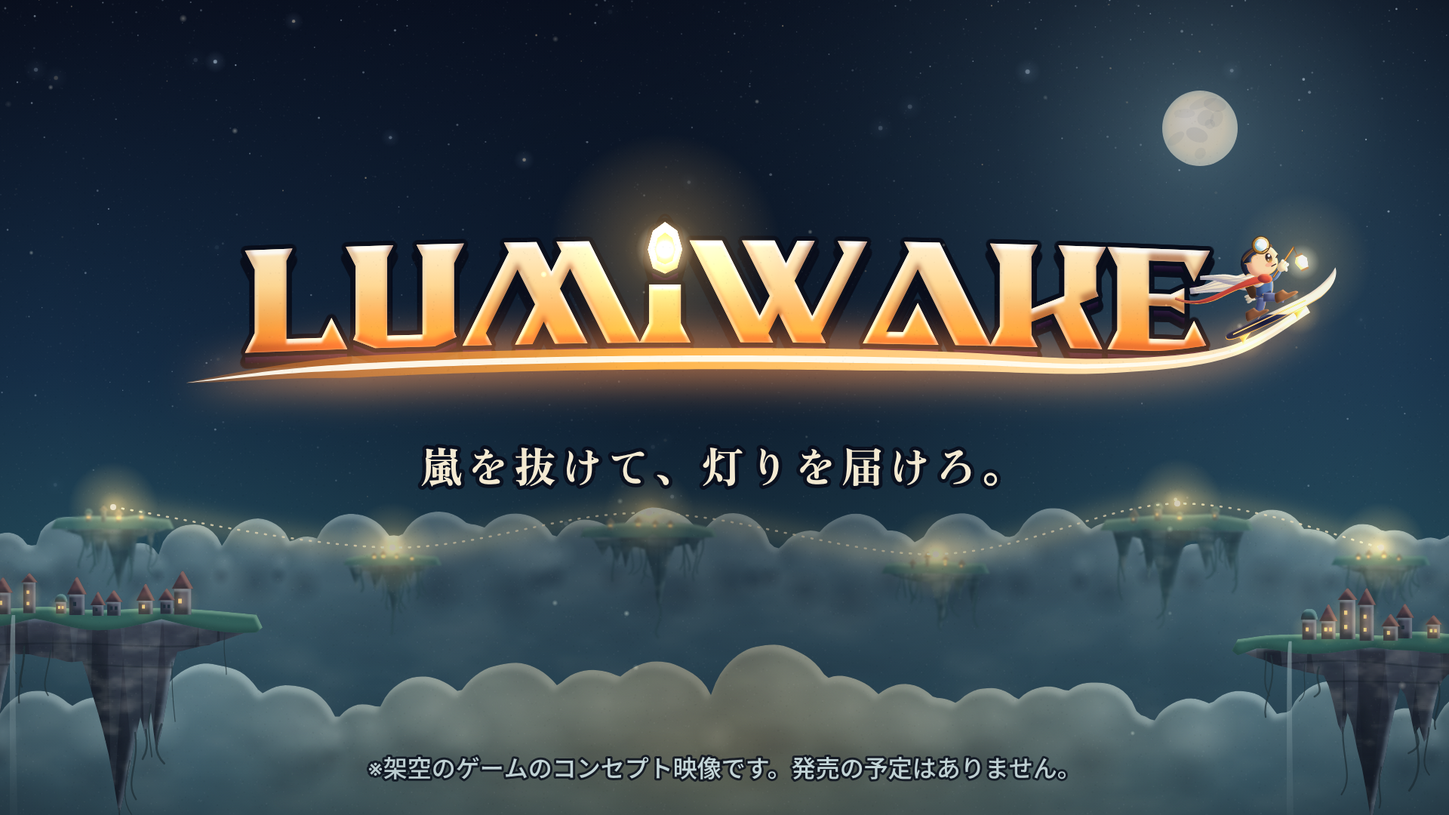
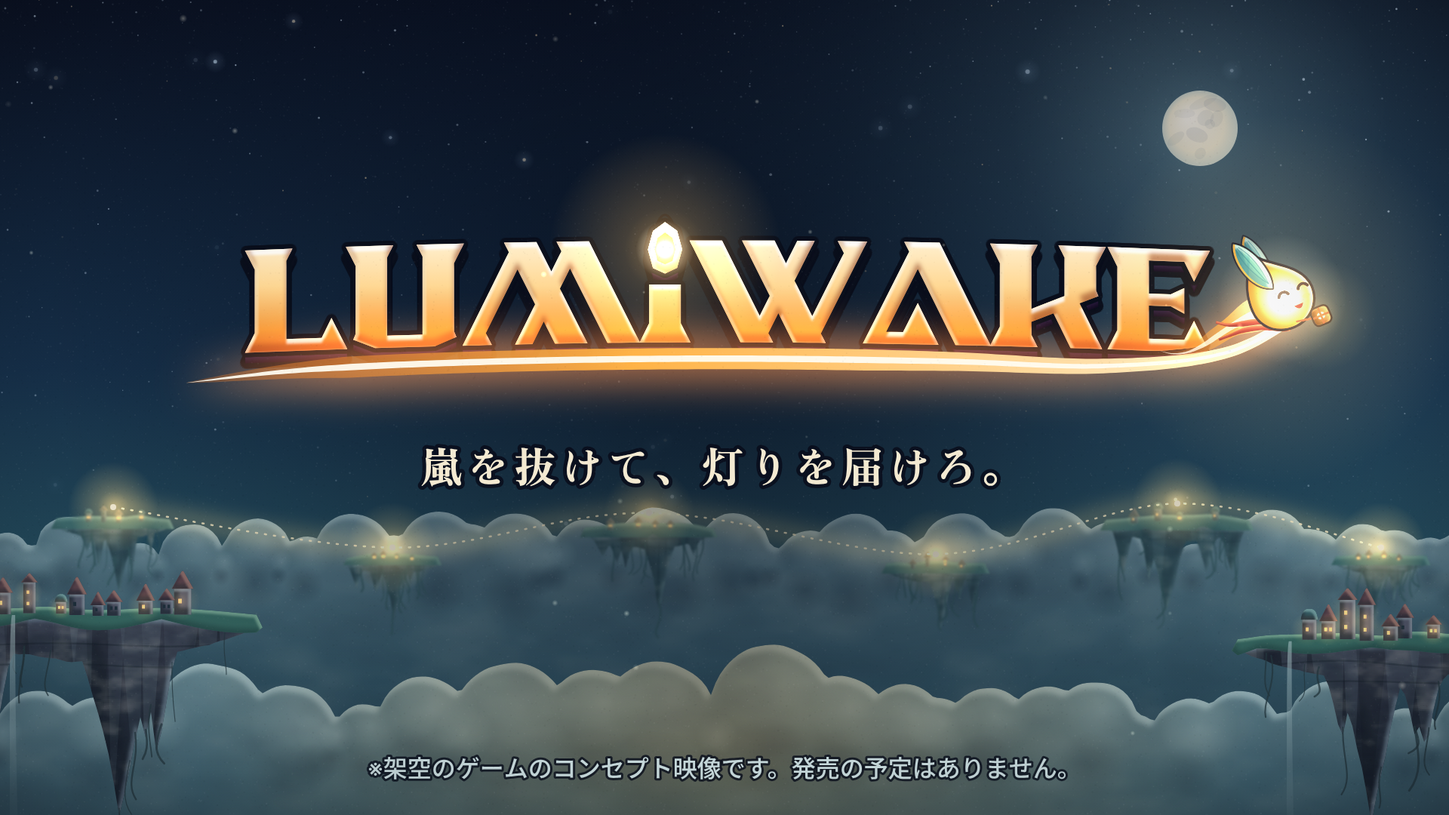
Replace human courier with a lantern spirit; rebuild shot table around the Suno track accents
Spirit rig (chain-based secondary motion, poses, 2 designs), sf1-sf3 redrawn,
sheets and checks. Shot table rebuilt from measured accents (cues ledger +
sync_check.py + generated SYNC_TABLE). Audio, fonts and logo glyph data are
not committed.

Claude-Session: https://claude.ai/code/session_01DHqeTrY16kMSHw1xjVFCqk

Changed region(s): [[0.7812, 0.2444, 0.9688, 0.4889]]

diff --git a/claude-video-skill/examples/lumiwake-30s/src/still.html b/claude-video-skill/examples/lumiwake-30s/src/still.html
@@ -4,13 +4,13 @@
 <style>@font-face{font-family:HUD;src:url('../assets/fonts/hud.otf')} body{margin:0;background:#000}</style>
 <body><canvas id="c" width="1920" height="1080"></canvas>
 <script src="../../../tools/assets/scene-lib.js"></script><script src="../../../tools/assets/depth.js"></script>
-<script src="lib/paint.js"></script><script src="lib/world.js"></script><script src="lib/courier.js"></script><script src="lib/courier2.js"></script>
+<script src="lib/paint.js"></script><script src="lib/world.js"></script><script src="lib/courier.js"></script><script src="lib/courier2.js"></script><script src="lib/spirit.js"></script>
 <script src="lib/hud.js"></script><script src="lib/logo-glyphs.js"></script><script src="lib/logo.js"></script>
 <script src="stills/sf1.js"></script><script src="stills/sf2.js"></script><script src="stills/sf3.js"></script>
 <script>
 (async () => {
   const q = new URLSearchParams(location.search);
-  PAINT.mode.fx = q.get("fx") !== "0"; window.CHAR_OLD = q.get("char") === "old"; if (q.get("hudws") !== null) window.HUD_WS = parseFloat(q.get("hudws")); PAINT.mode.sil = q.get("sil") === "1";
+  PAINT.mode.fx = q.get("fx") !== "0"; window.CHAR = q.get("char") || "spirit"; window.CHAR_OLD = window.CHAR === "old"; window.SPIRIT_DESIGN = q.get("sd") || "P"; if (q.get("hudws") !== null) window.HUD_WS = parseFloat(q.get("hudws")); PAINT.mode.sil = q.get("sil") === "1";
   await Promise.all(["32px HUD", "700 26px JPG", "500 26px JPG", "900 40px JPM"].map((f) => document.fonts.load(f, "灯台島まで嵐を抜けて、灯りを届けろ。届けた灯りが空の道ルミウェイク架空発売予定0123456789")));
   await document.fonts.ready;
   const ctx = document.getElementById("c").getContext("2d");

diff --git a/claude-video-skill/examples/lumiwake-30s/src/stills/sf1.js b/claude-video-skill/examples/lumiwake-30s/src/stills/sf1.js
@@ -36,7 +36,8 @@ STILLS["1"] = function (ctx, t) {
   let k = 0; while (k < samp.length - 2 && samp[k][0] < 1080) k++;
   const ang = Math.atan2(samp[k + 1][1] - samp[k - 1][1], samp[k + 1][0] - samp[k - 1][0]);
   // 配達人: 案A(提灯のミオ)。?char=old で第1版(比較用)
-  if (window.CHAR_OLD) COURIER.drawCourier(ctx, samp[k][0], samp[k][1] - 6, 1.45, ang, { lean: 0.5, crouch: 0.7, armF: 0.15, scarfT: t, lampGlow: 1 });
+  if (window.CHAR === "spirit") SPIRIT.draw(ctx, samp[k][0] + 20, samp[k][1] - 105, 2.3, ang, "fly", window.SPIRIT_DESIGN, { t, lift: 0.0 });
+  else if (window.CHAR_OLD) COURIER.drawCourier(ctx, samp[k][0], samp[k][1] - 6, 1.45, ang, { lean: 0.5, crouch: 0.7, armF: 0.15, scarfT: t, lampGlow: 1 });
   else COURIER2.draw(ctx, samp[k][0], samp[k][1] - 15, 1.7, ang * 0.9, Object.assign({}, COURIER2.POSES.ride, { lean: 0.34, crouch: 0.55, fx: 82, bx: -80, handF: [1.6, -0.35] }), "A", { t, windLift: 0.42 });
   // 手前: 暗い岩(右下、d=0。画面の枠になる)と、手前の雲のもや(ぼかし)
   W.island(ctx, { seed: 21, cx: 1820, top: 960, w: 620, depthH: 300, d: 0.0, town: false, falls: false, lamp: 0, L: [0.6, -0.8], lightSide: { col: C.amber, w: 5, L: [-0.9, -0.3], a: 0.7 } });

diff --git a/claude-video-skill/examples/lumiwake-30s/src/stills/sf2.js b/claude-video-skill/examples/lumiwake-30s/src/stills/sf2.js
@@ -45,7 +45,8 @@ STILLS["2"] = function (ctx, t) {
     ctx.lineWidth = 2; ctx.strokeStyle = "rgba(255,240,210,0.5)"; ctx.beginPath(); ctx.arc(at[0] - 90, at[1] - 30, 330, 0, 7); ctx.stroke(); ctx.restore();
     P.glow(ctx, at[0] - 90, at[1] - 30, 300, C.amber, 0.35);
   }
-  const me = window.CHAR_OLD ? COURIER.drawCourier(ctx, at[0], at[1] - 4, 1.5, ang, { lean: 0.6, crouch: 0.95, armF: 0.9, armB: 0.6, scarfT: t + 0.3, scarfLen: 1.15 })
+  const me = window.CHAR === "spirit" ? SPIRIT.draw(ctx, at[0] + 10, at[1] - 140, 2.2, ang, Object.assign({}, SPIRIT.POSES.fly, { expr: 2, flap: 0.6, glow: 1.25, tail: 1.25 }), window.SPIRIT_DESIGN, { t: t + 0.3, lift: 0.0 })
+    : window.CHAR_OLD ? COURIER.drawCourier(ctx, at[0], at[1] - 4, 1.5, ang, { lean: 0.6, crouch: 0.95, armF: 0.9, armB: 0.6, scarfT: t + 0.3, scarfLen: 1.15 })
     : COURIER2.draw(ctx, at[0], at[1] - 18, 1.85, ang * 0.9, Object.assign({}, COURIER2.POSES.ride, { lean: 0.5, crouch: 0.85, fx: 84, bx: -84, handF: [1.55, -0.55], expr: 0 }), "A", { t: t + 0.3, windLift: 0.45 });
   // 手前: 渦に吸い上げられる岩のかけら(ぼかし=手前の被写界深度)
   P.layer(ctx, (g) => {

diff --git a/claude-video-skill/examples/lumiwake-30s/src/stills/sf3.js b/claude-video-skill/examples/lumiwake-30s/src/stills/sf3.js
@@ -27,7 +27,8 @@ STILLS["3"] = function (ctx, t) {
   const L = LOGO.draw(ctx, 960, 400, 1280, { t });
   // スウッシュの先端に小さな配達人
   const e = L.swooshEnd, s2 = L.swS, n = s2.length, ang = Math.atan2(s2[n - 1][1] - s2[n - 4][1], s2[n - 1][0] - s2[n - 4][0]);
-  if (window.CHAR_OLD) COURIER.drawCourier(ctx, e[0] - 30 * Math.cos(ang), e[1] - 30 * Math.sin(ang) - 3, 0.3, ang, { lean: 0.5, crouch: 0.7, scarfT: t });
+  if (window.CHAR === "spirit") SPIRIT.draw(ctx, e[0] - 40 * Math.cos(ang), e[1] - 40 * Math.sin(ang) - 34, 0.82, ang, "offer", window.SPIRIT_DESIGN, { t, lift: 0.0 });
+  else if (window.CHAR_OLD) COURIER.drawCourier(ctx, e[0] - 30 * Math.cos(ang), e[1] - 30 * Math.sin(ang) - 3, 0.3, ang, { lean: 0.5, crouch: 0.7, scarfT: t });
   else COURIER2.draw(ctx, e[0] - 46 * Math.cos(ang), e[1] - 46 * Math.sin(ang) - 12, 0.42, ang * 0.8, Object.assign({}, COURIER2.POSES.ride, { lean: 0.4, crouch: 0.5 }), "A", { t, windLift: 0.35 });
   // コピーと注記(和文)
   if (!P.mode.sil) {

diff --git a/claude-video-skill/examples/lumiwake-30s/BRIEF.md b/claude-video-skill/examples/lumiwake-30s/BRIEF.md
@@ -8,27 +8,33 @@
 |---|---|
 | 題材 | 架空のゲーム『LUMIWAKE(ルミウェイク)』。浮遊島の夜空を、光の気流に乗って荷物(灯り)を届ける配達人のアクション |
 | 遊びの核(1文) | 琥珀の「光の気流」に乗って加速し、嵐の稲妻と乱気流をぎりぎりでかわして、島へ灯りを届ける(届けると島が点灯する) |
-| 主役 | 配達人ミオ。空板に乗り、背中に四角い灯り箱、長い朱のマフラー、額に飛行ゴーグル(案A「提灯のミオ」に確定(ユーザー承認)。作りは `src/lib/courier2.js`。旧版は `courier.js`(比較用に残す)) |
+| 主役 | **灯りの精**(光を運ぶ小さな配達役。人型ではない)。炎のしずくの体に、光のリボンの尾、朱の房、青緑の葉の羽、吊り下げた小包。作りは `src/lib/spirit.js`(案P「ともしび」を推薦、案Q「提灯ちゃん」は不採用の候補)。人型のミオ(`courier2.js`)は、ユーザーの判断で廃止(比較用に残す) |
 | 尺・画面 | 30秒 = 900コマ、1920×1080、30fps、横 |
 | 用途 | ゲームの宣伝ティザー(疑似プレイ演出のコンセプト映像)。無音で見ても分かること |
 | 表記 | 「架空のゲームのコンセプト映像です。発売の予定はありません。」を最後の画面に出す。発売日・価格・ストア名・機種は書かない |
 | 禁止 | 人物写真、AI 生成のフラット PNG の貼り合わせ、3D、実在の作品・商標に似せること、既製フォントそのままのロゴ |
 
-## 2. 30秒の構成(調査の一致点を前提にする)
-前提: 冒頭0〜3秒に「行動+危険+結果」を同時に見せる/スタジオロゴは冒頭に置かない/情景カットは2枚まで/説明の板は作らず、行動→反応→結果→HUD の数字の因果で見せる/主張は2つまで/ロゴと架空表記は最後の1枚/15秒の引き延ばしにせず「失敗・再挑戦・報酬」を足す。
+## 2. 30秒の構成(Suno の曲の区間に合わせて組み直した版)
+前提: 冒頭0〜3秒に「行動+危険+結果」/スタジオロゴは冒頭に置かない/情景は2枚まで/説明の板は作らず行動→反応→結果→HUD の数字の因果で見せる/主張は2つまで/ロゴと架空表記は最後の1枚/15秒の引き延ばしにせず「失敗・再挑戦・報酬」を足す。
+曲の区間(実測。`audio/sync_map.json`): 0〜1s 前の余韻 / 1〜7.5s 音量が下がる谷 / **7.56s 最大のアクセント** / 7.56〜20.5s 持続する推進 / 20.5〜24.6s 山場 / 24.6〜30s 余韻(減衰)。
 
-| 区間 | 秒 | 役割 | 中身 |
-|---|---|---|---|
-| フック | 0–3 | 行動+危険+結果 | 気流を駆け上がる配達人の真後ろに稲妻。かわして NEAR MISS +150(スタイルフレーム1) |
-| 情景1 | 3–6 | 目的地 | 灯りの消えた島の町を見下ろす。主張1「嵐を抜けて、灯りを届けろ。」 |
-| ルール | 6–10 | 操作と因果 | 気流から気流へ跳び移る → 光の粒を拾う → LUMI ゲージが満ちる → 加速 |
-| 失敗 | 10–14 | 危険が本物だと分かる | 嵐の腕が荷物をかすめる → 画面が揺れる → PARCEL 3→2(割れた灯り)→ 体勢を崩す |
-| 再挑戦・見せ場 | 14–20 | 遊びの応用 | 立て直して嵐の目を回り込む。完璧なタイミングでヒットストップ、PERFECT +800、STREAK ×12(スタイルフレーム2) |
-| 報酬 | 20–24 | クライマックス | 灯台島に届ける → 灯台が点灯 → 町の灯りが波のように広がる |
-| 情景2 | 24–26 | 余韻 | 引きの画。灯った島々が航路の光でつながる。主張2「届けた灯りが、空の道になる。」 |
-| ロゴ | 26–30 | 名前を覚える | 航路の光がスウッシュになりロゴ着地、静止保持、架空の表記(スタイルフレーム3) |
+| 区間 | 秒(コマ) | 役割 | 中身 | 曲との対応 |
+|---|---|---|---|---|
+| フック | 0–3(0–90) | 行動+危険+結果 | 灯りの精が気流を駆け、稲妻をかわして NEAR MISS(SF1) | 前の余韻。1.0s で谷へ |
+| 谷 | 3–7.57(90–227) | 静かな緊張・目的地・主張1 | 暗い灯台島と迫る嵐。「嵐を抜けて、灯りを届けろ。」 | 谷。音の無い動きだけで見せる |
+| 点火 | 7.57–10(227–300) | 最大の見せ場の開始 | 灯りの点火、気流に飛び込む | **7.56s の最大のアクセント=227** |
+| ルール | 10–14(300–420) | 操作と因果 | 光の粒を拾い、ゲージが満ち、加速 | 推進の刻み |
+| 失敗 | 14–16.9(420–507) | 危険が本物 | 嵐が荷物をかすめ、PARCEL 3→2 | 強いアクセント 435・455 |
+| 再挑戦 | 16.9–20.33(507–610) | 立て直し | 嵐の目をめぐる門を4つ通る | 門ごとに 539・559・578・591 |
+| 山場 | 20.33–24.1(610–723) | 最大の見せ場と報酬 | PERFECT、ヒットストップ、STREAK ×12、灯台へ | 山場。610 と STREAK の5連 |
+| ロゴ | 24.1–30(723–900) | 名前を覚える | 灯台の点火+ロゴ着地、航路の光、主張2、架空の表記 | 低音の一撃 723、余韻 |
 
-主張は2つだけ: ①嵐をかわして届けるアクション ②届けると世界(夜空の地図)が変わる。特徴の箇条書き(協力プレイ等)は出さない。
+主張は2つだけ: ①嵐をかわして届けるアクション ②届けると世界(夜空の地図)が変わる。特徴の箇条書きは出さない。映像のヒットは対応するアクセントのコマと±1コマ以内(`SHOTS.md`、`SYNC_TABLE.md`)。
+
+## 2b. 曲と権利
+- 曲: **Suno『Hopeful Bittersweet』**(ユーザーが Suno の無料プランで生成)の 159.84〜189.84 秒を切り出した30.000秒(-14.6 LUFS、真のピーク -2.6 dBFS)。2曲のうち、測定結果(谷→最大のアクセント→山場→余韻の形が映像構成に合う)から A を採用。
+- **音声ファイルはリポジトリに入れない**(`audio/*.mp3` は .gitignore)。入れてあるのは測定結果の `audio/sync_map.json` と、映像側の台帳 `audio/cues.json` だけ。
+- **権利(公開前に利用者が Suno の規約で確認すること)**: 無料プランの曲は、個人・非商用で、Suno への表記(クレジット)が条件になると報告されている(第三者の解説で、こちらでは規約を確かめていない)。この動画を公開・商用に使う前に、現在の Suno の利用規約・プランの条件を確認し、必要な表記(Suno の曲であること)を動画の説明などに入れる。映像側の注記は架空のゲーム表記のみ。
 
 ## 3. 調査の要点と前回の弱点の対応表
 前回の弱点の番号は FINDINGS.md §3。[試験値]は事実でなく、ここで試して決める値。
@@ -36,13 +42,13 @@
 | 前回の弱点 | 対応する調査の要点 | 今回の手当て | 範囲 |
 |---|---|---|---|
 | 1 ゲームに見えず図解のよう(平塗り・陰影なし・事件がない) | 最初のトレーラーはゲームプレイ主体・HUD が見えるとよい(Steam、[確認])/疑似プレイは行動→反応→結果→HUD の鎖 | 全ショットを疑似プレイ(行動と数字の因果)で組む。説明の板は0枚。絵は3トーン+リム、背景4層以上、大気遠近、局所光、薄い粒 | 絵の作り方=汎用 / HUD・NEAR MISS=ゲーム |
-| 2 主役不在・キーアートなし | 主役は明瞭なシルエット+局所リム、540px とシルエットだけで読めるか | 主役ミオを全8ショットに出す(ロゴの画面でもスウッシュの先端に小さく)。シルエットの決め手を3つ(マフラー・灯り箱・空板) | 汎用 |
+| 2 主役不在・キーアートなし | 主役は明瞭なシルエット+局所リム、540px とシルエットだけで読めるか | 主役(灯りの精)を全8ショットに出す(ロゴの画面でもスウッシュの先端に)。人型は廃止し、光・尾・羽で見せる。シルエットの決め手を3つ(炎の先・葉の羽・吊り小包) | 汎用 |
 | 3 ロゴが既製フォントの並べただけ | 既製フォントの無加工表示は禁止。白黒で成立する字形を先に合格させてから質感 | ゆうたONE「FullmoonMarch」の字形をパスにし、反らし・i を灯りに置換・スウッシュで下端を切り欠く・押し出しと縁の光。白黒版で先に確認 | 汎用(ブランド)/題材の灯り=ゲーム |
 | 4 タイポの質(Noto 900 一択、出方が単調、小さい文字) | 1920×1080 で強調文 64〜100px・情報 40〜60px・補足 32px 以上 [試験値]/読ませる日本語は 4〜6字/秒から試す [試験値] | 和文は2書体(主張=Zen Old Mincho 900、表記と HUD の和文=Noto Sans JP 500/700)、必要な字だけサブセット。主張は 2.5〜3.0秒保持 | 汎用 |
 | 5 同じ型の繰り返し・スライド風 | 情景カットは2〜3枚まで、すぐに触れる遊び | 型の違う画を並べる(横移動の追い撮り/俯瞰/寄りの事故/渦の周回/引きの全景)。見出し+絵の型は使わない | 汎用 |
 | 6 転換の質(9枚平均ブラー、企業色の色帯) | 最優先はハードカット、必要な所だけ方向ワイプ・ホイップ 4〜7f・フラッシュ 1〜2f [試験値]。全カット同じ転換は禁止 | 基本はハードカットで「動きの向き」を引き継ぐ。転換の効果は2か所まで(S4 の揺れ、S8 の光の収束) | 汎用 |
 | 7 暗く単調、明度の山がタイトルだけ | 背景4〜6層、遠景は低彩度・低コントラスト [試験値] | 明度の山を3つ(稲妻 1.6s、PERFECT 17.4s、灯台点灯 21s)。嵐=紫黒と白青、味方=琥珀で色の意味を固定 | 汎用(色の意味づけ)/配色=題材 |
-| 8 音(埋もれ・出すぎ、低域過多) | 全拍にヒットを重ねない、山場の前に引き算、バス分離、固定の dB 差ルールは作らず聴いて決める [試験値] | 第2段階。山は4つだけ(ショット表の「音の山」)。山の前に効果音を引く窓を2か所 | 汎用 |
+| 8 音(埋もれ・出すぎ、低域過多) | 全拍にヒットを重ねない、山場の前に引き算、バス分離、固定の dB 差ルールは作らず聴いて決める [試験値] | 曲は Suno の30秒切り出し(実測のアクセントに映像を合わせる)。効果音は3発だけ。谷(1〜7.5s)は音に無い動きで見せる | 汎用 |
 | 9 詰め込みすぎ | 主張は30秒でも2つまで、説明カット 1.0〜2.5秒・衝撃カット 0.15〜0.3秒 [試験値] | 主張2つ、特徴の列挙なし。読ませる文字は長いショットにだけ置く | 汎用 |
 | 10 細部(数字のつながり等) | — | 数字は1本の流れ(距離 1.2km → 0.4km → 到着、PARCEL 2 → …、STREAK は増えるだけ)をショット表で固定 | ゲーム |
 
@@ -71,7 +77,7 @@
 - 枠組み: HyperFrames(SKILL.md §2)。`<canvas>` 1枚に、止めたタイムラインの時刻から `src/lib/*.js` で描く。スタイルフレームの関数はすでに時刻 t の純関数(乱数は seed 付き、同じ引数で同じ画素になることを2回描いて md5 一致で確認)。
 - 動き(motion-prompt のギャラリー、`search` で見つけた候補。`get` はまだ): #121 予備動作(S3 の跳び移り)、#122 余韻(マフラーの揺れ戻り)、#011 つぶしと伸ばし(着地)、#024 衝撃の揺れ(S4 の被弾・S8 のロゴ着地)、#040 フリーズフレーム(ヒットストップの考え方)、#108 流し撮り(S1 の背景の流れ)、#035 FPV(S5 の周回)、#022 光の帯(ロゴ)。ゲーム固有の動き(被弾の点滅、数字のポップ、HUD の2段ゲージ)はギャラリーに無いので自作になる見込み。
 - ヒットストップの式: 資料の型 `f<h ? f : f<h+n ? h : f-n` は n=2 のとき 92,93,94 の3コマが止まる(手元で計算して確認)。止めるコマ数を n にするなら `f<h ? f : f<h+n ? h : f-n+1`(この場合、以降の動きは n−1 コマ遅れる)。1/2/4 コマを比べて決める [試験値]。
-- 音の山は4つ(1.6s 稲妻、11.0s 被弾、17.4s PERFECT、27.0s ロゴ)。BGM は1曲として切らない(SKILL.md §4b)。
+- 曲は Suno の30秒(上の 2b)。BGM は切らず、効果音は `audio/cues.json` の `sfx_plan` の3発だけ。映像のヒットの検査は、書き出し後に `tools/sync_check.py`(skill 側)等で実測する。
 
 ## 8. 再現
 ```bash

diff --git a/claude-video-skill/examples/lumiwake-30s/SHOTS.md b/claude-video-skill/examples/lumiwake-30s/SHOTS.md
@@ -1,28 +1,35 @@
-# LUMIWAKE 30秒 — ショット表(cue 表)
+# LUMIWAKE 30秒 — ショット表(曲に合わせて作り直した版)
 
-30fps・900コマ。フレーム範囲は整数で**終端を含まない**([開始, 終了))。区間は隙間・重なりなしで 0〜900 を覆う(合計 90+90+120+120+180+120+60+120 = 900)。
-範囲の列: 汎用=どのジャンルの宣伝にも効く作り方 / ゲーム=ゲームPV 専用の作り方。SF=スタイルフレーム。
+30fps・900コマ。フレーム範囲は整数で**終端を含まない**([開始, 終了))。0〜900 を隙間・重なりなしで覆う(90+137+73+120+87+103+113+177 = 900。`src/tools/sync_check.py` で機械的に確認済み)。
+曲: Suno『Hopeful Bittersweet』の 159.84〜189.84 秒の30秒切り出し。**実測のアクセント時刻**(`audio/sync_map.json`、時刻の分解能 約11.6ms)を使い、拍の格子は仮定しない。映像のヒットのコマは、対応するアクセントの frame30 と ±1 コマ以内(目標 0〜1)。台帳(正)は `audio/cues.json`、全イベントの対応表は `SYNC_TABLE.md`(自動生成)。
+範囲の列: 汎用=どのジャンルの宣伝にも効く作り方 / ゲーム=ゲームPV 専用。主役は「灯りの精」(人型でない。`src/lib/spirit.js`)。
 
-| # | コマ [開始,終了) | 秒 | 主役 | 意図(見た人に分かること) | 出来事(行動→反応→結果→HUD) | 文字 | 音の山(コマ) | カメラ・つなぎ | 範囲 |
+## ショット
+| # | コマ [開始,終了) | 秒 | 主役 | 意図 | 出来事(行動→反応→結果→HUD) | 文字 | 曲の区間と合わせたアクセント(映像のコマ=アクセントのコマ) | カメラ・つなぎ | 範囲 |
 |---|---|---|---|---|---|---|---|---|---|
-| S1 | 0–90 | 0.0–3.0 | ミオ | 何をするゲームか、危ないことが一目で分かる | 気流を駆け上がる→真後ろに稲妻(46f)→かわす→NEAR MISS +150・×4。**SF1 = 48f** | HUD のみ | **山1: 稲妻 46f**(音は 47f) | 横の追い撮り、ダッチ 3°。0f から完成した構図で動いている | 冒頭3秒に行動+危険+結果=汎用 / NEAR MISS・HUD=ゲーム |
-| S2 | 90–180 | 3.0–6.0 | 灯りの消えた町(ミオは小さく横切る) | 目的地と「灯りがない」状態 | 俯瞰のワイド。島の窓は暗い、灯台島だけ遠くに輪郭 | 主張1「嵐を抜けて、灯りを届けろ。」100–180f(2.67秒) | なし(効果音を引く窓1) | S1 の気流の向きを引き継ぐハードカット | 情景は2枚まで=汎用 |
-| S3 | 180–300 | 6.0–10.0 | ミオ | 操作のルール(跳ぶ・拾う・溜める・加速) | 予備動作→跳び移り→着地(つぶし)→光の粒を3つ拾う(+30 ×3)→LUMI ゲージが段で満ちる→加速(270f) | HUD(+30、LUMI) | 拾う音3つ(小)、加速の風 270f | 寄りから中へ。加速で背景の流れが速くなる | 因果の鎖=汎用 / ゲージ・拾う=ゲーム |
-| S4 | 300–420 | 10.0–14.0 | ミオと嵐の腕 | 危険は本物で、失敗もある | 嵐の腕が荷物をかすめる(330f)→画面の揺れ(中・1回目)→PARCEL 3→2(割れた灯り)→体勢を崩して落ちかけ、マフラーをつかんで戻る | HUD(PARCEL の減り) | 山の前に引き算(318–330f)→**山2: 被弾 330f** | 寄り。被弾の瞬間だけ2コマの白青の閃光 | 失敗を見せる=汎用 / 被弾の点滅・耐久=ゲーム |
-| S5 | 420–600 | 14.0–20.0 | ミオ | 失敗から学んで上手くいく(遊びの応用)。最大の見せ場 | 立て直す→嵐の目のふちを周回(上昇音 435–522f)→完璧な瞬間にヒットストップ→PERFECT +800・STREAK ×12・LUMI 満タン。**SF2 = 522f** | HUD(PERFECT、STREAK) | **山3: PERFECT 522f**(全編で最大の打撃) | 渦の周回、ダッチ 8°。ヒットストップ中は背景の流れも止め、白い輪だけ広がる | 溜めて放つ=汎用 / ヒットストップ・STREAK=ゲーム |
-| S6 | 600–720 | 20.0–24.0 | 灯台島と町 | 届けると世界が変わる(報酬) | 灯台島に着地→荷物を灯台に入れる→灯台が点灯(630f)→町の窓が波のように灯る→DELIVERED | HUD(DELIVERED)→主張2「届けた灯りが、空の道になる。」690f から | 点灯の和音 630f(山ではなく広がり) | 中→引き。灯りの波を左から右へ追う | 報酬の可視化=汎用 / DELIVERED=ゲーム |
-| S7 | 720–780 | 24.0–26.0 | 灯った島々と航路の光 | 余韻。道がつながった | 引きの全景。ミオが通った航路が島をつなぐ光の線になる | 主張2(690–780f、3.0秒) | なし(効果音を引く窓2、BGM は続く) | ゆっくり引く(2%)。情景2枚目 | 余韻の間=汎用 |
-| S8 | 780–900 | 26.0–30.0 | ロゴ(とスウッシュ先端のミオ) | 名前を覚える。架空であることも伝える | 航路の光が集まってスウッシュになる→ロゴ着地(810f、揺れ小・2回目)→灯りの i が灯る→静止保持 820–900f。**SF3 = 840f** | ロゴ、主張1(56px)、架空の表記(32px) | **山4: ロゴ着地 810f**(音は 811f)、余韻で終わる | 固定+ごく遅い寄り。最後の 2.7 秒は保持(holds.json に登録する) | 最後の1枚にロゴ+表記=汎用 |
+| S1 | 0–90 | 0.0–3.0 | 灯りの精 | 何をするゲームか、危ないことが一目で分かる | 気流を駆ける→稲妻が真後ろを撃つ(22)→かわす→NEAR MISS +150。**SF1 = 48** | HUD のみ | 前の余韻(0〜1s)。22(0.22・弱い)=稲妻の閃光。**1.0s=30**: 谷の始まりで世界が静まる | 横の追い撮り、ダッチ3°。0コマ目から動いている完成した構図 | 冒頭3秒に行動+危険+結果=汎用 / HUD=ゲーム |
+| S2 | 90–227 | 3.0–7.57 | 小さな灯りの精と、暗い灯台島 | 静かな緊張。目的地(灯りのない島)と、迫る嵐 | 灯りを落として低く飛ぶ→暗い灯台島が遠くに→嵐の壁が近づく→224で灯りがふくらむ(息を吸う) | 主張1「嵐を抜けて、灯りを届けろ。」100–180(2.67秒、音の無い谷に置く) | **谷(1〜7.5s)**: アクセントなし=動きは音に頼らず、無音の動き(風・光の粒)だけ。224(0.23)=吸う | 引き→寄り。つなぎは S3 へのハードカット(227) | 情景は2枚まで・谷の静けさ=汎用 |
+| S3 | 227–300 | 7.57–10.0 | 灯りの精 | 点火。ここから本編 | **227(1.00)**: 灯りの点火、全面の閃光2コマ、光の気流に飛び込む→240(0.20)灯りの輪、253(0.21)光の粒→299(0.52)光の粒を拾う1つ目、LUMI ゲージ1段 | HUD(LUMI) | **7.56s=227 最大のアクセント**。以降は持続する推進 | 227 でハードカット(暗→明、静→動で2軸反転)。気流に沿う追い撮り | 谷→爆発の対比=汎用 / ゲージ・拾う=ゲーム |
+| S4 | 300–420 | 10.0–14.0 | 灯りの精 | 操作のルール(拾う・溜める・加速) | 331/351/370/383 で光の粒を拾い、ゲージが段で満ちる→403(0.74)ブースト→409(0.74)NEAR MISS +150 | HUD(+30、LUMI、NEAR MISS) | 推進(三連系の刻み)。0.5〜0.7 の刻みはゲージの段、0.74 の二つは加速 | 寄りから中へ。ブーストで背景の流れが速くなる | 因果の鎖=汎用 / ゲージ=ゲーム |
+| S5 | 420–507 | 14.0–16.9 | 灯りの精と嵐の腕 | 危険は本物で、失敗もある | 429(0.77)稲光の予兆→**435(0.88)被弾**: 荷物が割れ PARCEL 3→2、画面の揺れ(中)→**455(0.80)二撃目**: きりもみ→467(低音0.80)灯りがしぼむ→487(0.75)立て直し | HUD(PARCEL の減り) | 推進の中の強いアクセント群。435・455 が山 | 寄り。被弾は2コマの閃光 | 失敗を見せる=汎用 / 荷物の耐久=ゲーム |
+| S6 | 507–610 | 16.9–20.33 | 灯りの精 | 失敗から学んで上手くいく(再挑戦)。溜め | **507(0.86)**: 気流へ戻るカット、STREAK を0から数え直す→**539(0.93)・559(0.81)・578(0.84)・591(0.91)**: 嵐の目をめぐる門を4つ通る(各門で光の輪とゲージ) | HUD(STREAK、門) | 推進の終盤、強いアクセントが約0.5〜0.65秒間隔=門の通過に1:1 | 渦の周回、ダッチ8°。門ごとにカメラが寄る | 溜めて放つ=汎用 / 門・STREAK=ゲーム |
+| S7 | 610–723 | 20.33–24.1 | 灯りの精 | 最大の見せ場と報酬 | **610(0.95)PERFECT +800**: ヒットストップ(1/2/4コマを比較)、白い輪→**615(20.5s)**: 停止が解けて一気に流れる→617/624/630/637/643 で STREAK ×8→×12(643 で画面が一段明るい)→682 灯台島が見える→696 荷物を差し出す姿勢 | HUD(PERFECT、STREAK) | **山場(20.5〜24.6s)**。強いアクセントが約0.2秒間隔=STREAK の5連 | ヒットストップ中は背景の流れも止める。615 から速度線が一気に出る | 溜めて放つ=汎用 / ヒットストップ・STREAK=ゲーム |
+| S8 | 723–900 | 24.1–30.0 | ロゴ(と、スウッシュの先の灯りの精) | 名前を覚える。架空であることも伝える | **723(低音0.97)**: 灯台の点火+ロゴ着地(揺れ小)、光の波が町へ→航路の光が島々をつなぐ→738(24.6s)光の波が地平に届き、ロゴが落ち着く→保持。**SF3 = 840** | ロゴ、主張2「届けた灯りが、空の道になる。」760–840、架空の表記 810–900 | **低音の一撃 24.1s=723**、余韻(24.6〜30s、26.5s で -35dB、29.5s で -82dB)。余韻の間は新しいアクセントを作らない | 固定+ごく遅い寄り(2%)。最後の約2.7秒は保持(holds.json に登録) | 最後の1枚にロゴ+表記=汎用 |
+
+注: 強いアクセント(強さ0.8以上、または低音0.9以上)14個は全部上の表に割り当て済み(`SYNC_TABLE.md` の末尾)。弱いアクセント(0.2前後)は副次の動き(光の輪・光の粒・窓の点灯)に使い、全部には合わせない。谷(1〜7.5s)は、音が無い所に偽の効果音を足さず、動き(風・光の粒・灯りのゆらぎ)だけで見せる。
+
+## 効果音(最小限。CC0 の素材のみ。曲を覆わない)
+435 に稲妻の短い裂け音、610 にガラスの小さな鈴、723 に灯りがともる低い音。この3つだけ(`audio/cues.json` の `sfx_plan`)。音の置き方は SKILL.md §2 のとおり、頂点を絵の出来事の1コマ後にする。曲の音とぶつかる所は、第2段階の後半で測って決める。
 
 ## 数字の流れ(つながりを固定)
-| 項目 | S1 | S3 | S4 | S5 | S6 |
+| 項目 | S1 | S4 | S5 | S6 | S7 |
 |---|---|---|---|---|---|
-| 灯台島まで | 1.2 km | 0.9 km | 0.7 km | 0.4 km | 到着 |
-| PARCEL | 3 | 3 | 3→2 | 2 | 2(届ける) |
-| STREAK | ×4 | ×7 | 0(途切れる) | ×12 | — |
-| LUMI | 58% | 30→100% | 60% | 100% | — |
+| 灯台島まで | 1.2 km | 0.9 km | 0.7 km | 0.5 km | 0.4 → 到着 |
+| PARCEL | 3 | 3 | 3→2(435) | 2 | 2 |
+| STREAK | ×4(S1 の NEAR MISS) | ×7 | 0(途切れる) | 0→門ごとに ×1〜×4 | ×8→×12 |
+| LUMI | 58% | 段で満タン(383) | 60%(467 で最小) | 80% | 100% |
 
 ## 間の予算(holds.json の下書き)
-- 820–900f(27.33–30.00s): ロゴ着地後の保持。
-- 522–525f(17.40–17.50s): ヒットストップ(1/2/4 コマを比べて決める)。
-- 画面全体の揺れは2回(330f、810f)。閃光は 46f と 330f と 522f(1秒に3回を超えない)。
+- 723–900(24.10–30.00s): ロゴ着地後の保持(余韻と一致)。
+- 610–613 付近: ヒットストップ(試験値 1/2/4 コマ)。
+- 画面全体の揺れは3回(435、610 は揺れでなく停止、723)。閃光は 22・224〜227・435・610 付近(1秒に3回を超えない)。

diff --git a/claude-video-skill/examples/lumiwake-30s/REVIEW_STAGE1.md b/claude-video-skill/examples/lumiwake-30s/REVIEW_STAGE1.md
@@ -191,3 +191,66 @@
 - フォントなどの素材が環境から消える場合に備え、再生成の手順(`setup_fonts.sh`、`glyph_paths.py`)を道具にしておく。
 ### ゲーム専用
 - 主役の持ち物(提灯)を HUD・ロゴの灯りと同じ形にそろえると、sf3 で「灯りを運ぶ人」が自然につながった。ただしゴーグルと提灯の丸い光が競合する(上の6)。
+
+---
+
+# 追加3: 主役を「灯りの精」に変更、曲(Suno)に合わせたショット表(第2段階の前半)
+
+作り手本人の点検で、独立レビューではない。見た目の良し悪しは利用者が判断する。HUD の文字は本来の書体で描いた(フォント・`logo-glyphs.js`・音声はコミットしない)。
+
+## 判断1: 人型のミオを廃止し、非人型の「灯りの精」にした
+- 理由(ユーザーの判断): 人型のミオは、静止画でもモーショングラフィック全体の質を下げる。
+- **汎用の知見(人型キャラをコードで描く難しさと、非人型にした判断)**:
+  1. 人型は、骨格(関節の数・比率)・顔・手・衣装のしわのどれかが一つ崩れると「安っぽい」と読まれる。観客は人の形に敏感で、コードの図形では解剖学的な説得力が出にくい(前回の2版とも、手・胴の比率・姿勢の指摘が止まらなかった)。
+  2. コードが得意なのは、光・グロー・尾を引く軌跡・陰影の帯・リムだった。非人型の主役にすると、その得意な部分がそのまま魅力になる。丸い体は関節が無く、姿勢の破綻(めり込み・反り)が起きない。
+  3. 非人型でも性格は出せる: 目の点2つ+眉1本(きりっ)、ほほ、口(3種)、まばたき、炎の先のゆらぎ。表情の数を少なくし、体のつぶし・伸ばし(回避で縦に伸び、荷物を差し出す時は丸く戻る)で動きの感情を出す。
+  4. 二次運動の部品(`chain`)は人型と同じ構造をそのまま使えた(尾・房・荷物の吊り・炎の先)。人型で作った部品構造は無駄にならなかった。
+  5. 判断の順番: 人型が全ショットで足を引っぱる場合は、キャラを直し続けるより、主役の種類を変える(非人型・記号的・光だけ)ほうが、初稿の質が早く上がる。ただし「愛着の湧く個性」は人型より薄くなりうる(下の弱点)。
+- **ゲーム専用の知見**: 「荷物を運ぶ」遊びの核を、主役の体(灯り)と持ち物(小包)にそのまま載せた。光る体は HUD の LUMI(光のゲージ)・灯台の点火・ロゴの i の灯りと同じ意味になり、画面全体の言葉がそろう。
+
+## 灯りの精: 2案と推薦(`frames/spirit_sheet.png`: 2案×3姿勢、シルエット、540px 縮小)
+| 案 | 見た目 | 良い点 | 弱い点 |
+|---|---|---|---|
+| **P ともしび(推薦)** | 炎のしずく形の体、先がゆらぐ炎、青緑の葉の羽、朱の房、光のリボンの尾、吊り下げた木の小包 | 炎の先と葉の羽でシルエットが「しずく+耳」になり、提灯より覚えやすい。体が一番明るく、暗い背景から抜ける | 丸い体は輪郭が単純。羽が体と重なると見分けにくい |
+| Q 提灯ちゃん | 丸い提灯の体(リブ・ふたと輪)、桃色の羽、ふろしき包み | 「灯りを運ぶ」が一目で分かる。ふたと輪が個性 | シルエットが丸い球+輪になり、540px で P より個性が弱い。ふろしき包みが体の下で小さい |
+- 推薦理由: ①体が炎の形でゆらぎ(二次運動)を付けやすい ②シルエットの個性(炎の先・羽・吊り小包)が3つ ③琥珀の光=味方の約束と体の形が一致 ④姿勢(回避の伸び、差し出す丸み)の差が出る。
+- 二次運動の部品構造(seek-safe、時刻 t だけで決まる): 光のリボン=chain 7節、スカーフの房=chain 2本×5節、荷物=chain 2節の振り子(姿勢で向きと振れ幅を変える)、炎の先=2つの sin の和、羽ばたき=sin(14t)、まばたき=3.2秒周期。姿勢は fly / dodge / offer を `poseMix` で補間。
+- 動かしたときの簡易確認(`frames/spirit_motion_check_P.png`): 別時刻 t=0〜0.3秒の ride で、羽・尾・房・小包が連続して動く。姿勢補間(fly→dodge→offer)の途中も形が崩れない。連続した動画としての確認はしていない。
+
+## sf1〜sf3 を灯りの精(P)で描き直した
+- `frames/sf1.png`(S1・48コマ)、`sf2.png`(S7・610コマ、ヒットストップの一瞬)、`sf3.png`(S8・840コマ、スウッシュの先に灯りの精)。ロゴ・背景・HUD は前回のまま。
+- 並べ比較: `frames/compare_mio_vs_spirit.jpg`(上=人型のミオ版、下=灯りの精)。540px とシルエット: `frames/check_540_and_silhouette.jpg`。効果の切り/入り: `fx_compare_sf1.jpg`、`fx_compare_sf2.jpg`。同じ指定で2回描いて md5 が一致(sf1・sf2・sf3・sheet・motion check)。
+
+## 判断2: 曲(Suno『Hopeful Bittersweet』30秒)に合わせたショット表
+- 実測のアクセント(56個、時刻の分解能 約11.6ms)を使い、拍の格子は仮定しない。構成を曲の区間(余韻・谷・最大のアクセント・推進・山場・余韻)に合わせて組み直した(BRIEF §2、`SHOTS.md`)。
+- **主な音ハメ**(映像のコマ=アクセントのコマ、ずれ 0 コマ。許容は ±1 コマ):
+  - **227**(7.56s、強さ1.00): 灯りの点火+気流に飛び込む=最大の見せ場の開始。直前の谷(1〜7.5s)は音の無い動き(静かな緊張)。
+  - **435**(0.88)・**455**(0.80): 嵐の被弾と二撃目(PARCEL 3→2、揺れ)。
+  - **507**(0.86): 再挑戦のカット。**539・559・578・591**(0.93/0.81/0.84/0.91): 嵐の目の門を4つ通る(アクセントと門が1:1)。
+  - **610**(0.95): PERFECT +800 とヒットストップ。**615**(20.5s): 山場の始まりで停止が解ける。**617/624/630/637/643**: STREAK ×8→×12 の5連(0.78〜0.93)。
+  - **723**(低音0.97): 灯台の点火+ロゴ着地。**738**(24.6s): 余韻の始まり。
+- 台帳と検査: `audio/cues.json`(映像側の台帳)、`src/tools/sync_check.py`(ショットの隙間・重なり、イベントのショット内、ずれ±1、強いアクセントの未割り当て、境目を検査)→ `SYNC_TABLE.md`。結果: OK、34イベント、強いアクセント(強さ0.8以上または低音0.9以上)14個を全部割り当て、未割り当て 0。
+- **これは設計であって、実測ではない**。実際のコマのずれは、書き出し後(第2段階の後半)に sync_check 等で測る。ヒットストップのコマ数(1/2/4)も、その時に比べて決める。
+- 効果音は3発だけ(435 の稲妻、610 のガラスの鈴、723 の低い灯り音)。曲のアクセントで足りる所に偽の効果音は足さない。谷は動きだけ。
+- 権利: 曲は Suno の無料プラン(個人・非商用、Suno への表記が条件と報告されている。第三者の解説)。公開前にユーザーが現在の規約を確認する。音声ファイルは入れていない。README・BRIEF に記録。
+
+## まだ弱い点(厳しめに)
+1. **灯りの精は丸く単純**: 体が一番明るいので、明るい背景(sf3 の気流や雲、sf1 の気流)では輪郭の濃紺の線だけが頼り。sf3 では540px で小さく、羽と体の区別が付かない。
+2. **愛着の持てる個性**は、人型より薄い可能性がある。顔(目・眉・ほほ・口)は小さく、きりっの表情は sf1 で読めるが、sf2(笑顔)との差は大きい。ゲームの主人公としての「格好よさ」は出ていない。
+3. **体の大きさ**: sf1・sf2 では体が大きく(半径約100px)、嵐や稲妻の迫力が相対的に小さく見える。小さくすると光の魅力が減る(トレードオフ)。
+4. **羽**: 青緑の葉の羽は、琥珀の体と補色で目立つが、「虫の羽」に見える。羽ばたきの上下のスキマに体が見えない(未確認)。
+5. **光の尾と気流**: 光の尾が背景の琥珀の気流と同じ色で、重なると尾が消える。気流から少し離して飛ばして対処したが、sf2 では気流の上に重なる。
+6. **荷物の小包が小さい**(体の約0.56R)。「荷物を運ぶ」の読み取りは、540px では怪しい。
+7. **曲に合わせたショット表は設計だけ**で、書き出した動画での実測はしていない。強いアクセントの多い S6〜S7 は、門・STREAK・ヒットストップが詰まっていて、映像の読ませる時間が足りない恐れがある(門の通過ごとに約0.5〜0.65秒、STREAK は約0.2秒間隔)。
+8. 谷(1〜7.5s)は、動きだけで約6.5秒保つ必要があるが、そのショット(S2)の中身はまだ静止画で検証していない。「最強のビジュアル」の約束は冒頭の S1 で守るが、S2 が単調になる懸念。
+9. 動画としての二次運動(連続)は未確認。静止のコマでの確認のみ。
+
+## 汎用とゲーム専用(追記)
+### 汎用
+- **音ハメは台帳にして機械で検査する**: 映像のヒットを「frame30(曲のアクセントのコマ)」で名指しし、ショットの境目・イベントの範囲・ずれ±1・強いアクセントの取りこぼしをスクリプト(`sync_check.py`)で検査する。ジャンルを問わず使える。
+- **曲の区間(谷・最大のアクセント・山場・余韻)から先に構成を決める**: 前回の「15秒を引き延ばした構成」ではなく、曲の形に映像の山を置いた。強いアクセントを優先し、小さなアクセントは副次の動きに回す。
+- **谷(静かな所)には、音に無い動きだけを置く**(偽の効果音を足さない)。
+- 非人型の主役にする判断(上)。
+### ゲーム専用
+- 光る主役=HUD のゲージ=灯台=ロゴの灯りを同じ意味にそろえる。
+- STREAK の増加を、山場の強いアクセントの5連に1:1で割り当てると、数字が音で増える感じが出る(設計)。
